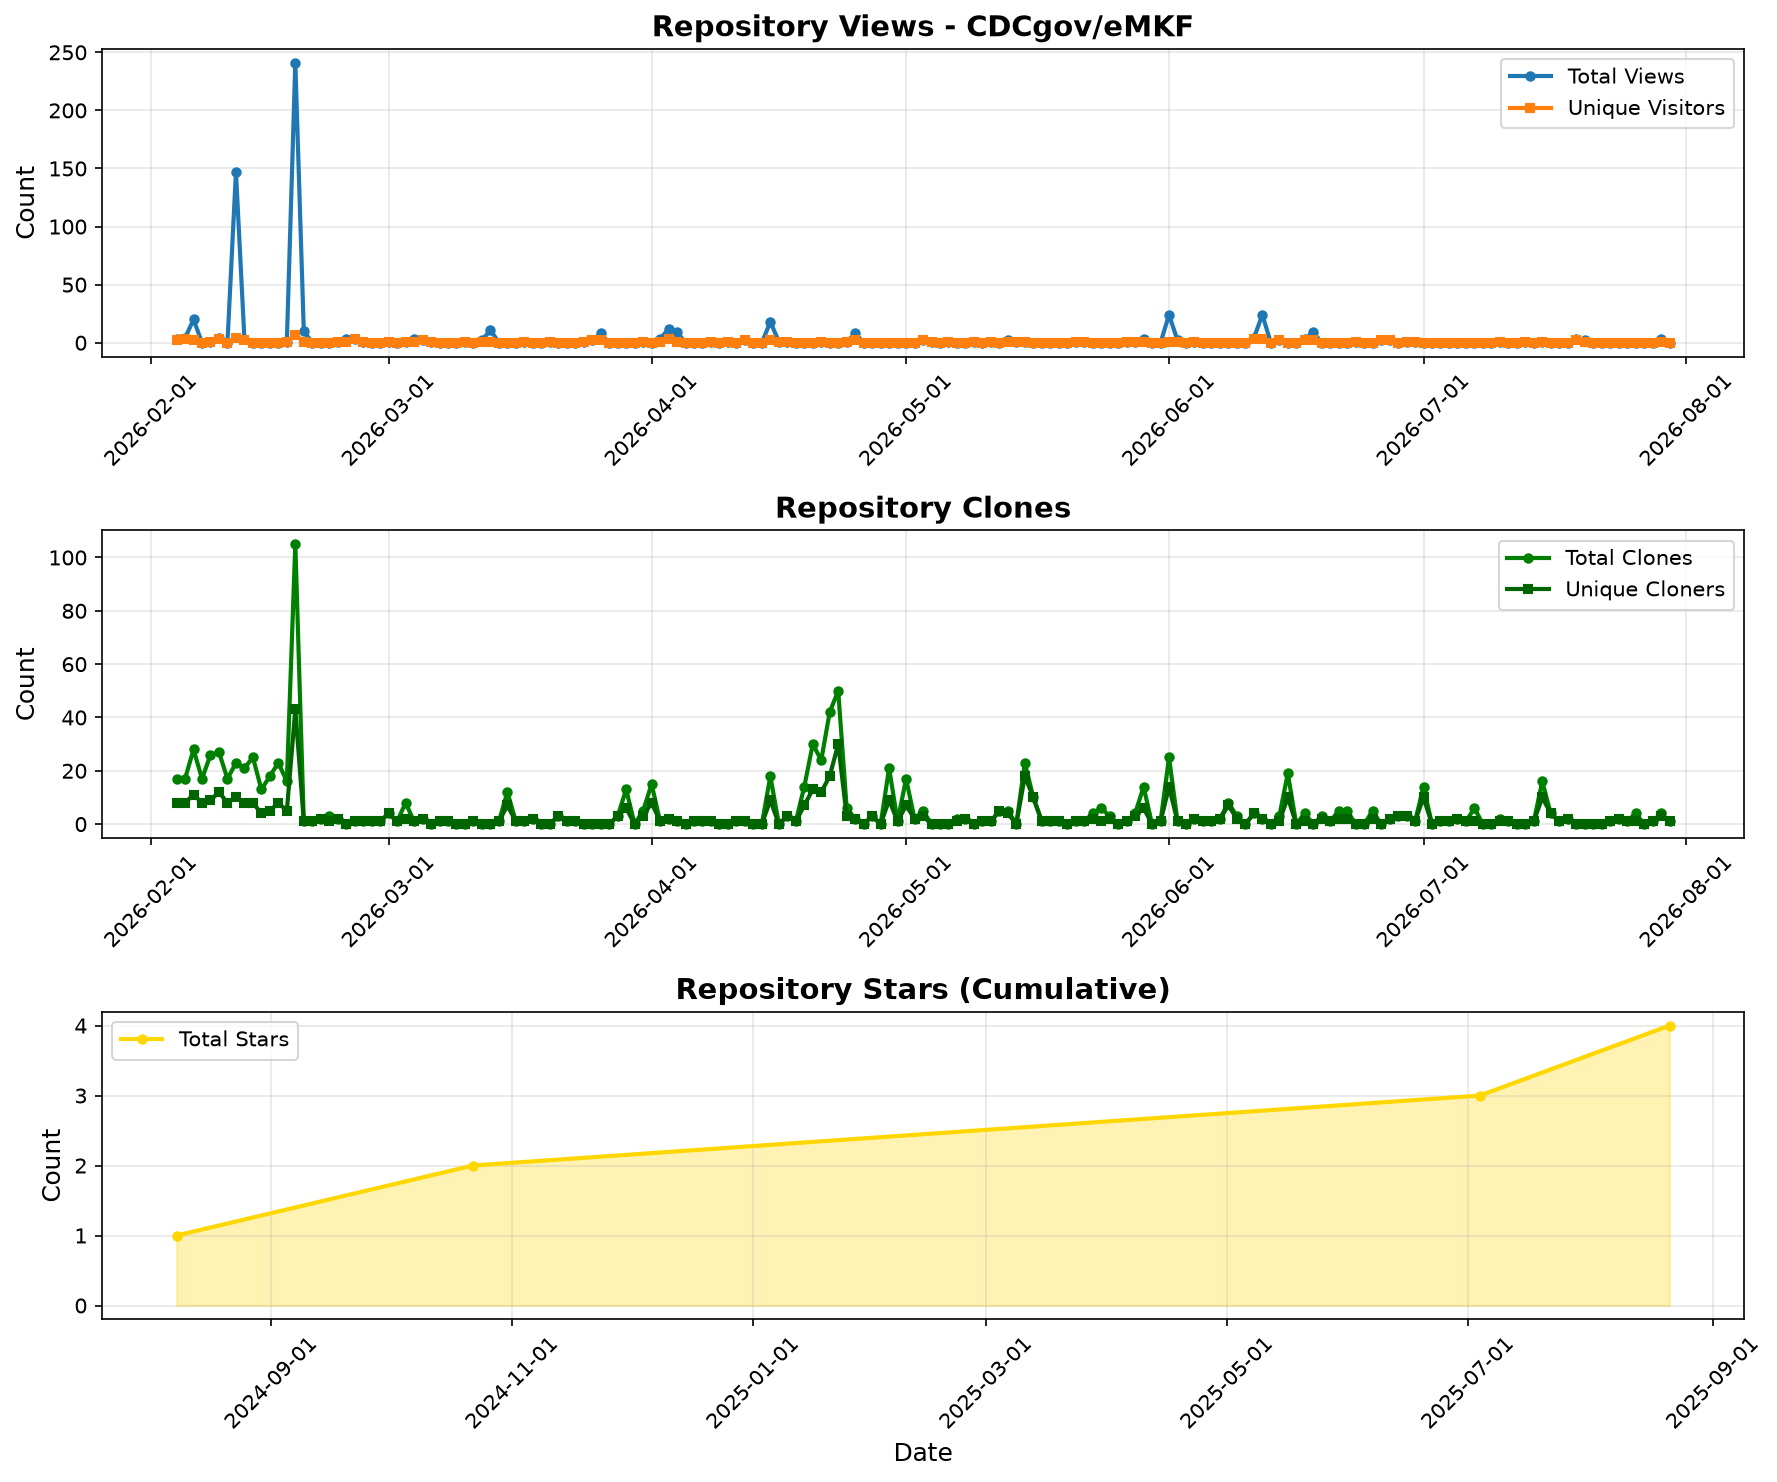
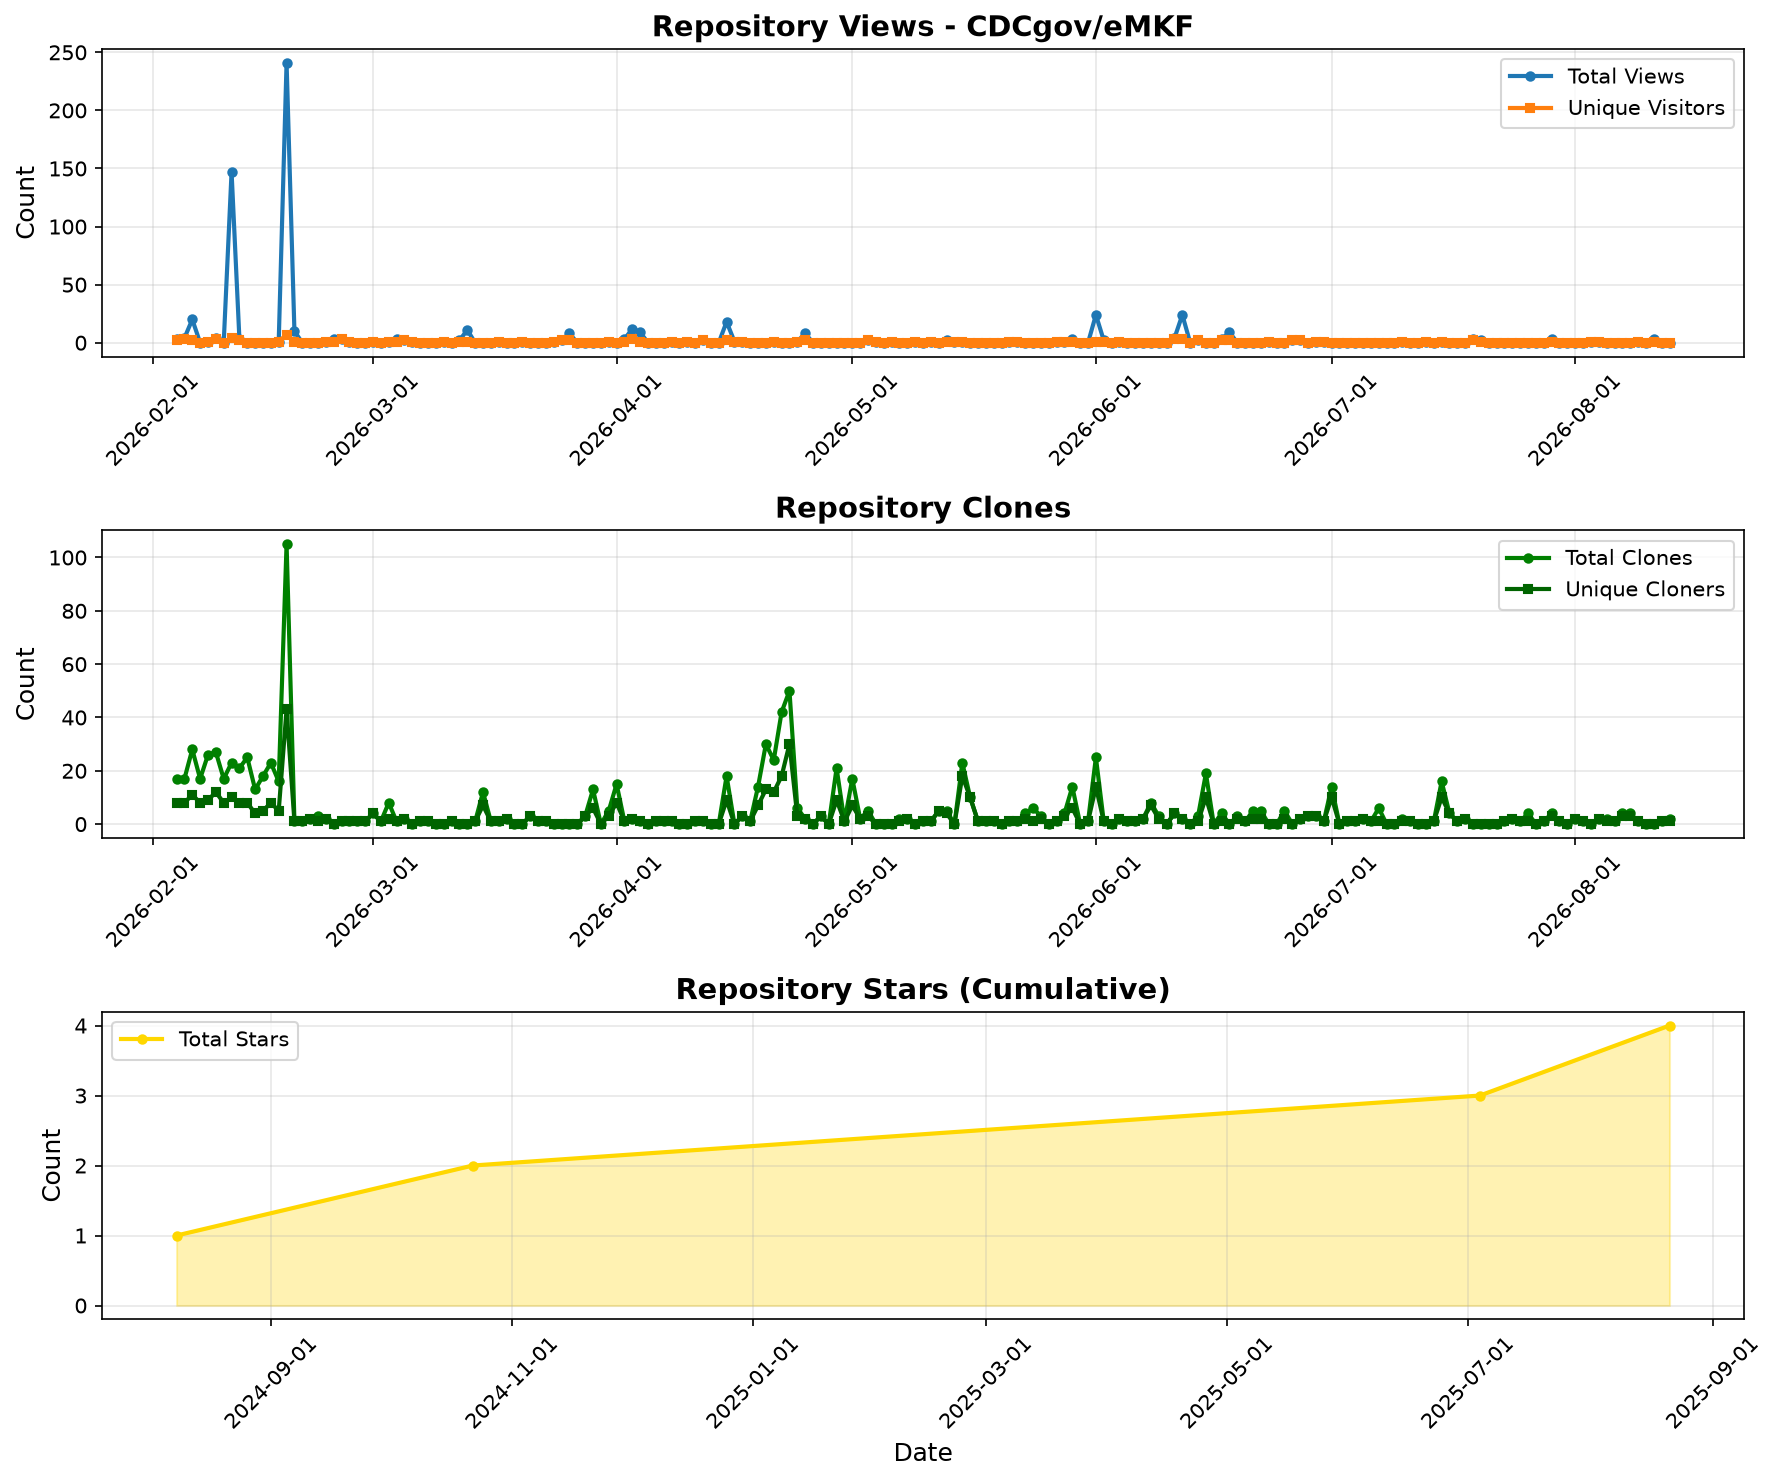
Update traffic stats [skip ci]

diff --git a/.traffic/README.md b/.traffic/README.md
@@ -1,6 +1,6 @@
 # Repository Traffic Statistics
 
-> Last updated: **August 01, 2026 at 01:46 UTC**
+> Last updated: **August 15, 2026 at 00:35 UTC**
 
 ## 📊 Traffic Overview
 
@@ -11,15 +11,15 @@
 ### Latest 14 Days
 | Metric | Total | Unique |
 |--------|-------|--------|
-| 👁 **Views** | 8 | 4 |
-| 📦 **Clones** | 17 | 13 |
+| 👁 **Views** | 6 | 4 |
+| 📦 **Clones** | 20 | 16 |
 | ⭐ **Stars** | 4 | - |
 
 ### All Time (Since Tracking Started)
 | Metric | Total | Unique | Data Points |
 |--------|-------|--------|-------------|
-| 👁 **Views** | 640 | 109 | 177 days |
-| 📦 **Clones** | 987 | 523 | 177 days |
+| 👁 **Views** | 646 | 113 | 191 days |
+| 📦 **Clones** | 1,007 | 539 | 191 days |
 | ⭐ **Stars** | 4 | - | 4 days |
 
 ## 📁 Available Files
